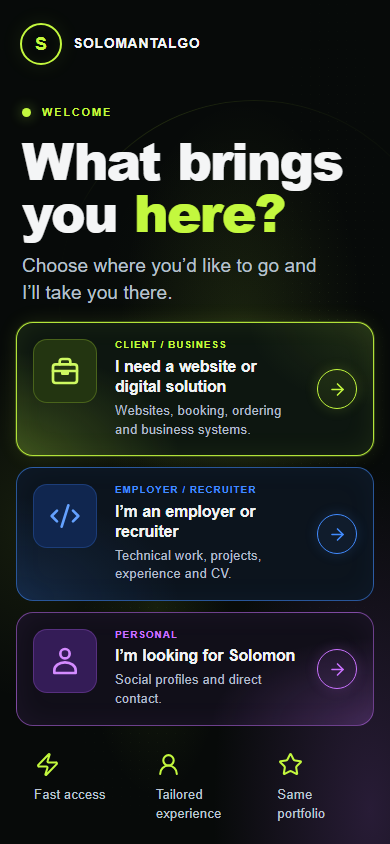
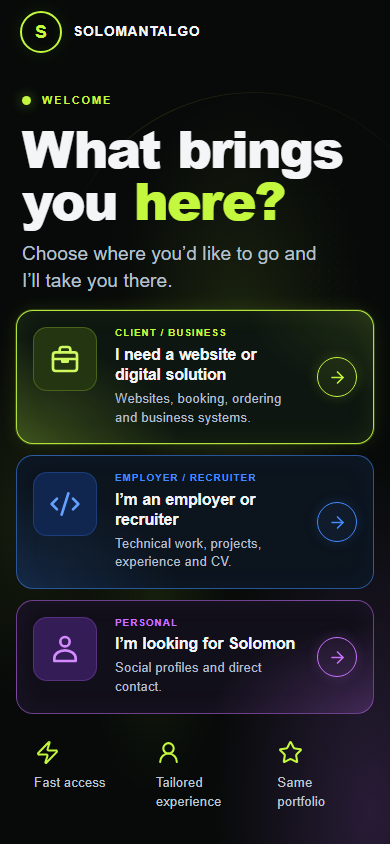
Changes

diff --git a/src/gateway.css b/src/gateway.css
@@ -530,3 +530,21 @@
 @media (min-width: 861px) and (min-height: 700px) and (max-height: 780px) {
   .gateway-header { min-height: 88px; }
 }
+
+@media (max-width: 860px) {
+  .gateway-page { padding-bottom: env(safe-area-inset-bottom, 0px); }
+  .gateway-layout { padding-bottom: calc(32px + env(safe-area-inset-bottom, 0px)); }
+}
+
+@media (max-width: 480px) and (max-height: 780px) {
+  .gateway-header { min-height: 72px; }
+  .gateway-welcome h1 { font-size: clamp(2.4rem, 12vw, 3rem); }
+  .gateway-description { font-size: 1.05rem; margin-bottom: 14px; }
+  .gateway-card { min-height: 0; grid-template-columns: 56px minmax(0, 1fr) 36px; gap: 14px; padding: 14px; }
+  .gateway-card-icon { width: 56px; height: 56px; }
+  .gateway-card-icon svg { width: 28px; height: 28px; }
+  .gateway-card-title { font-size: .95rem; }
+  .gateway-card-description { font-size: .8rem; }
+  .gateway-card-arrow { width: 36px; height: 36px; }
+  .gateway-benefits { margin-top: 18px; }
+}

diff --git a/index.html b/index.html
@@ -5,7 +5,7 @@
     <link rel="icon" type="image/svg+xml" href="/src/assets/favicon/favicon.svg" />
     <link rel="alternate icon" href="/src/assets/favicon/favicon.ico" />
     <link rel="apple-touch-icon" href="/src/assets/favicon/apple-touch-icon.png" />
-    <meta name="viewport" content="width=device-width, initial-scale=1.0" />
+    <meta name="viewport" content="width=device-width, initial-scale=1.0, viewport-fit=cover" />
     <link rel="preconnect" href="https://fonts.googleapis.com" />
     <link rel="preconnect" href="https://fonts.gstatic.com" crossorigin />
     <link href="https://fonts.googleapis.com/css2?family=Plus+Jakarta+Sans:wght@400;500;600;700;800&display=swap" rel="stylesheet" />
